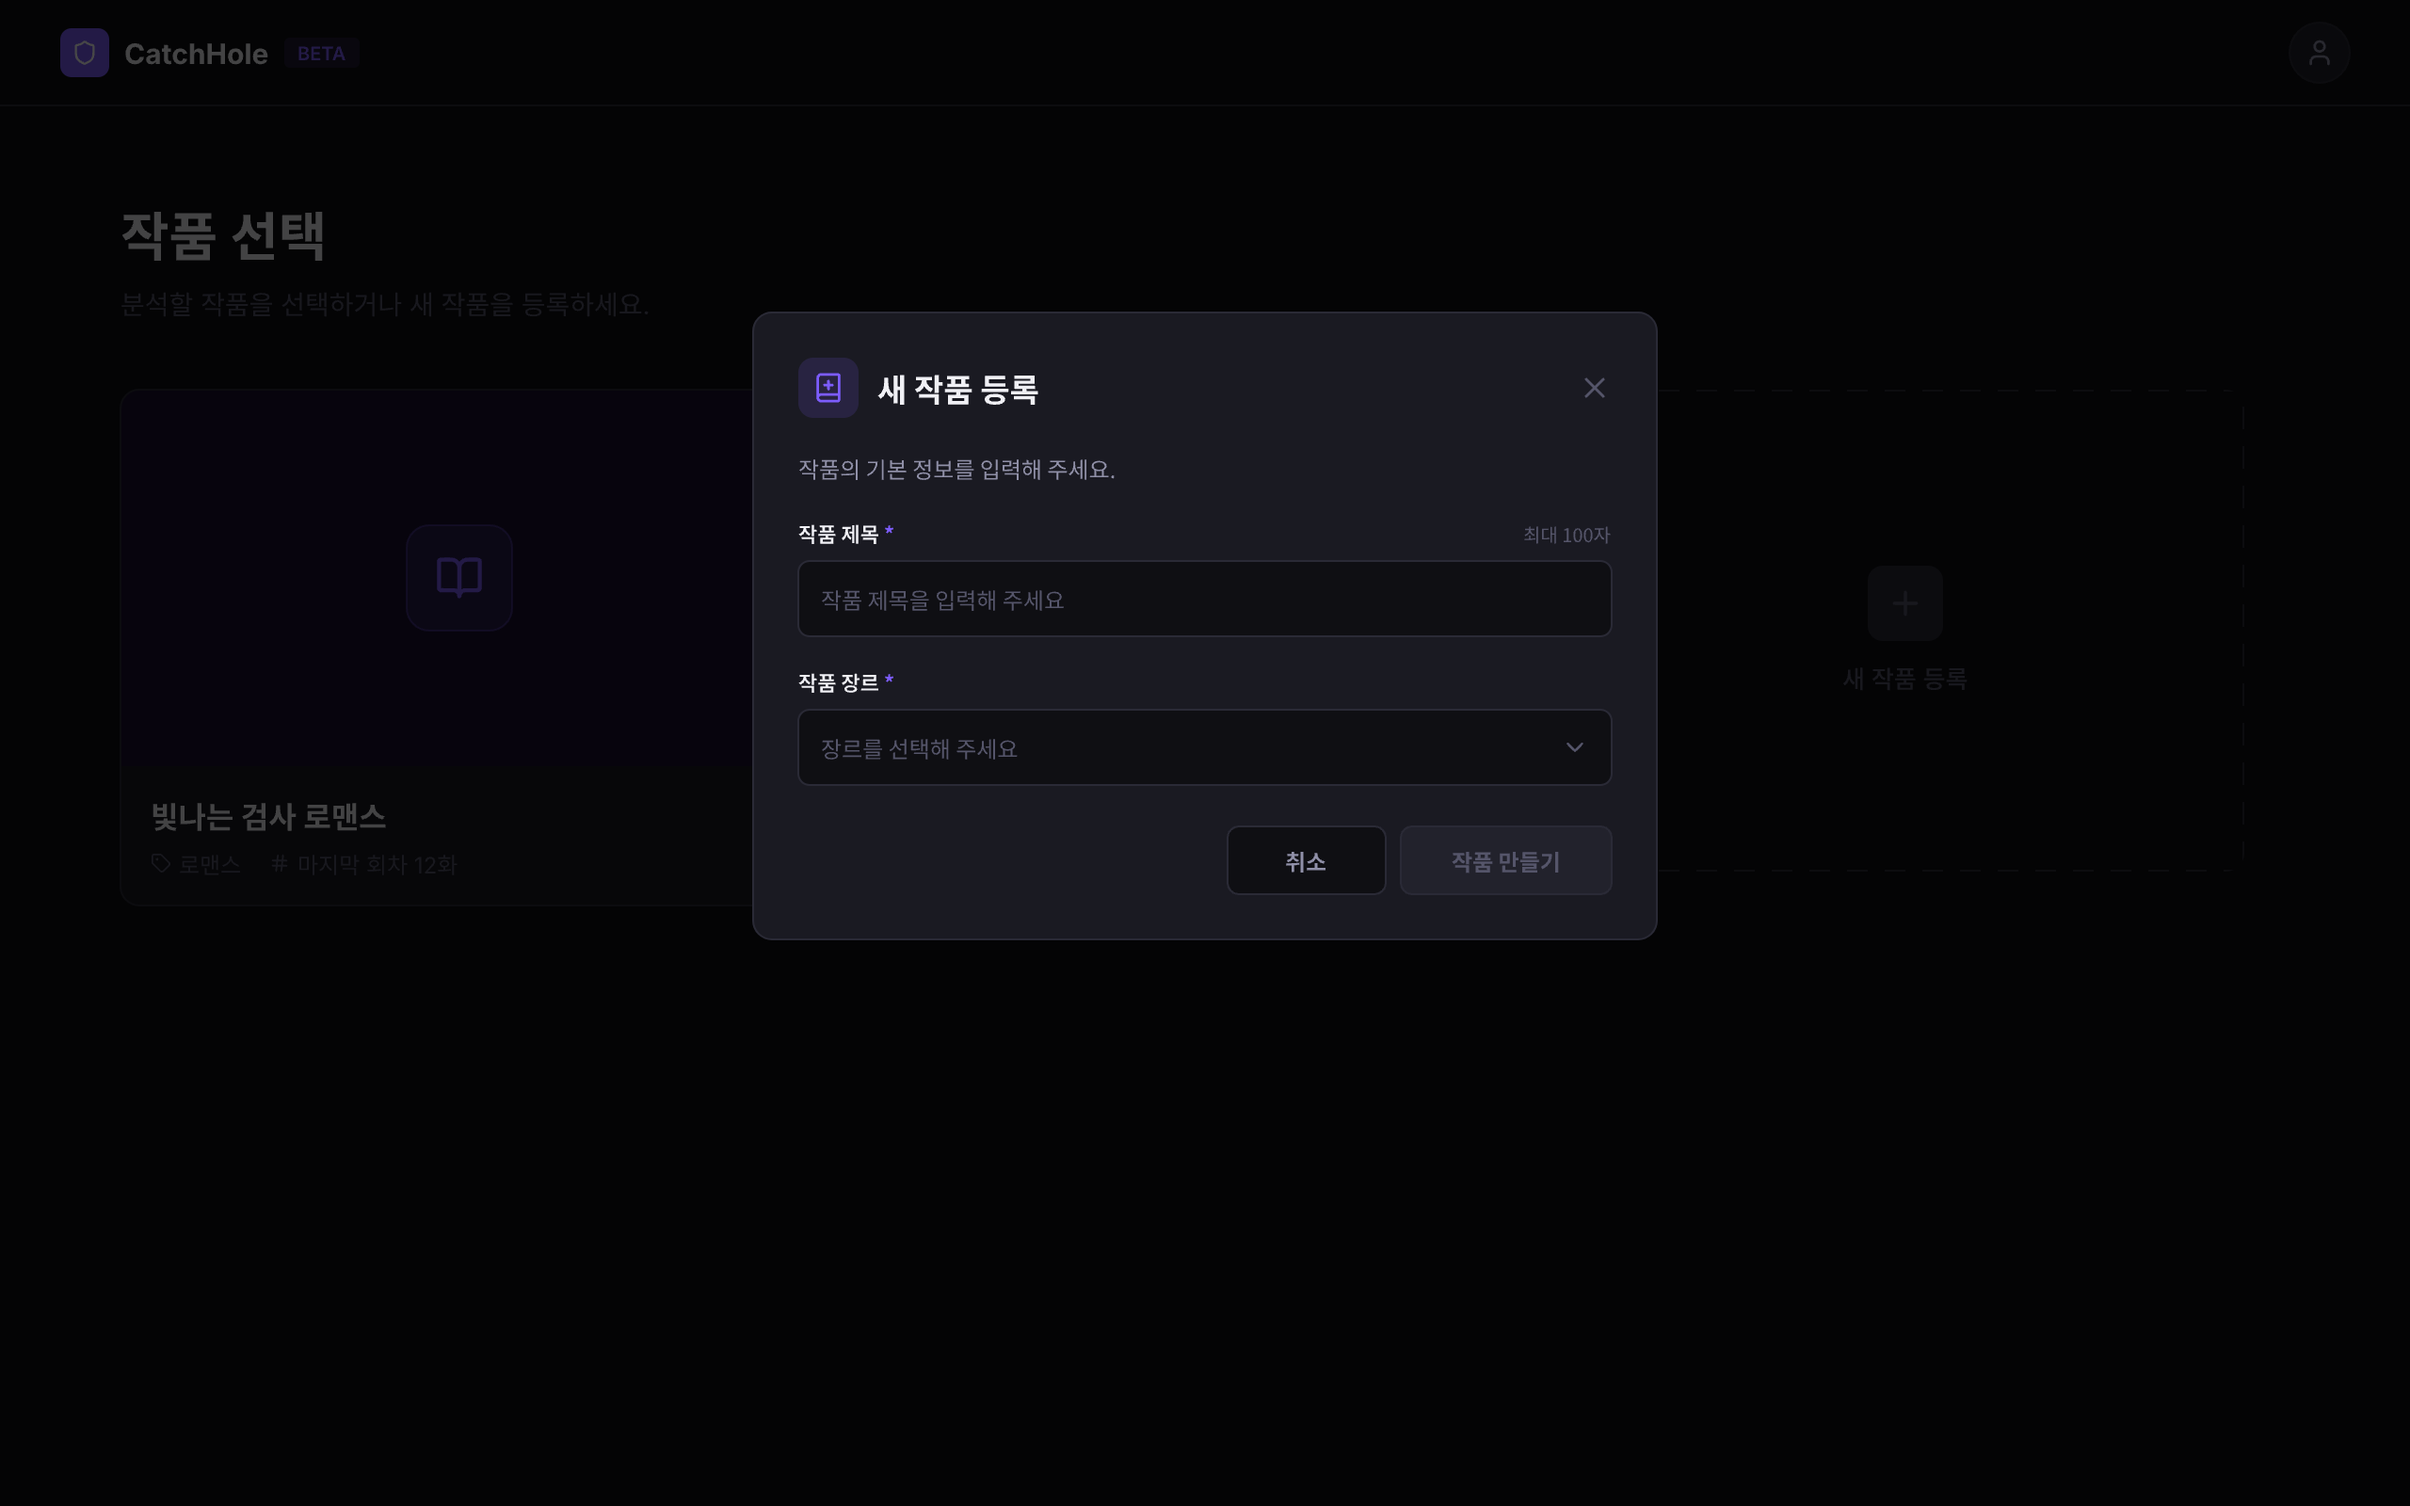
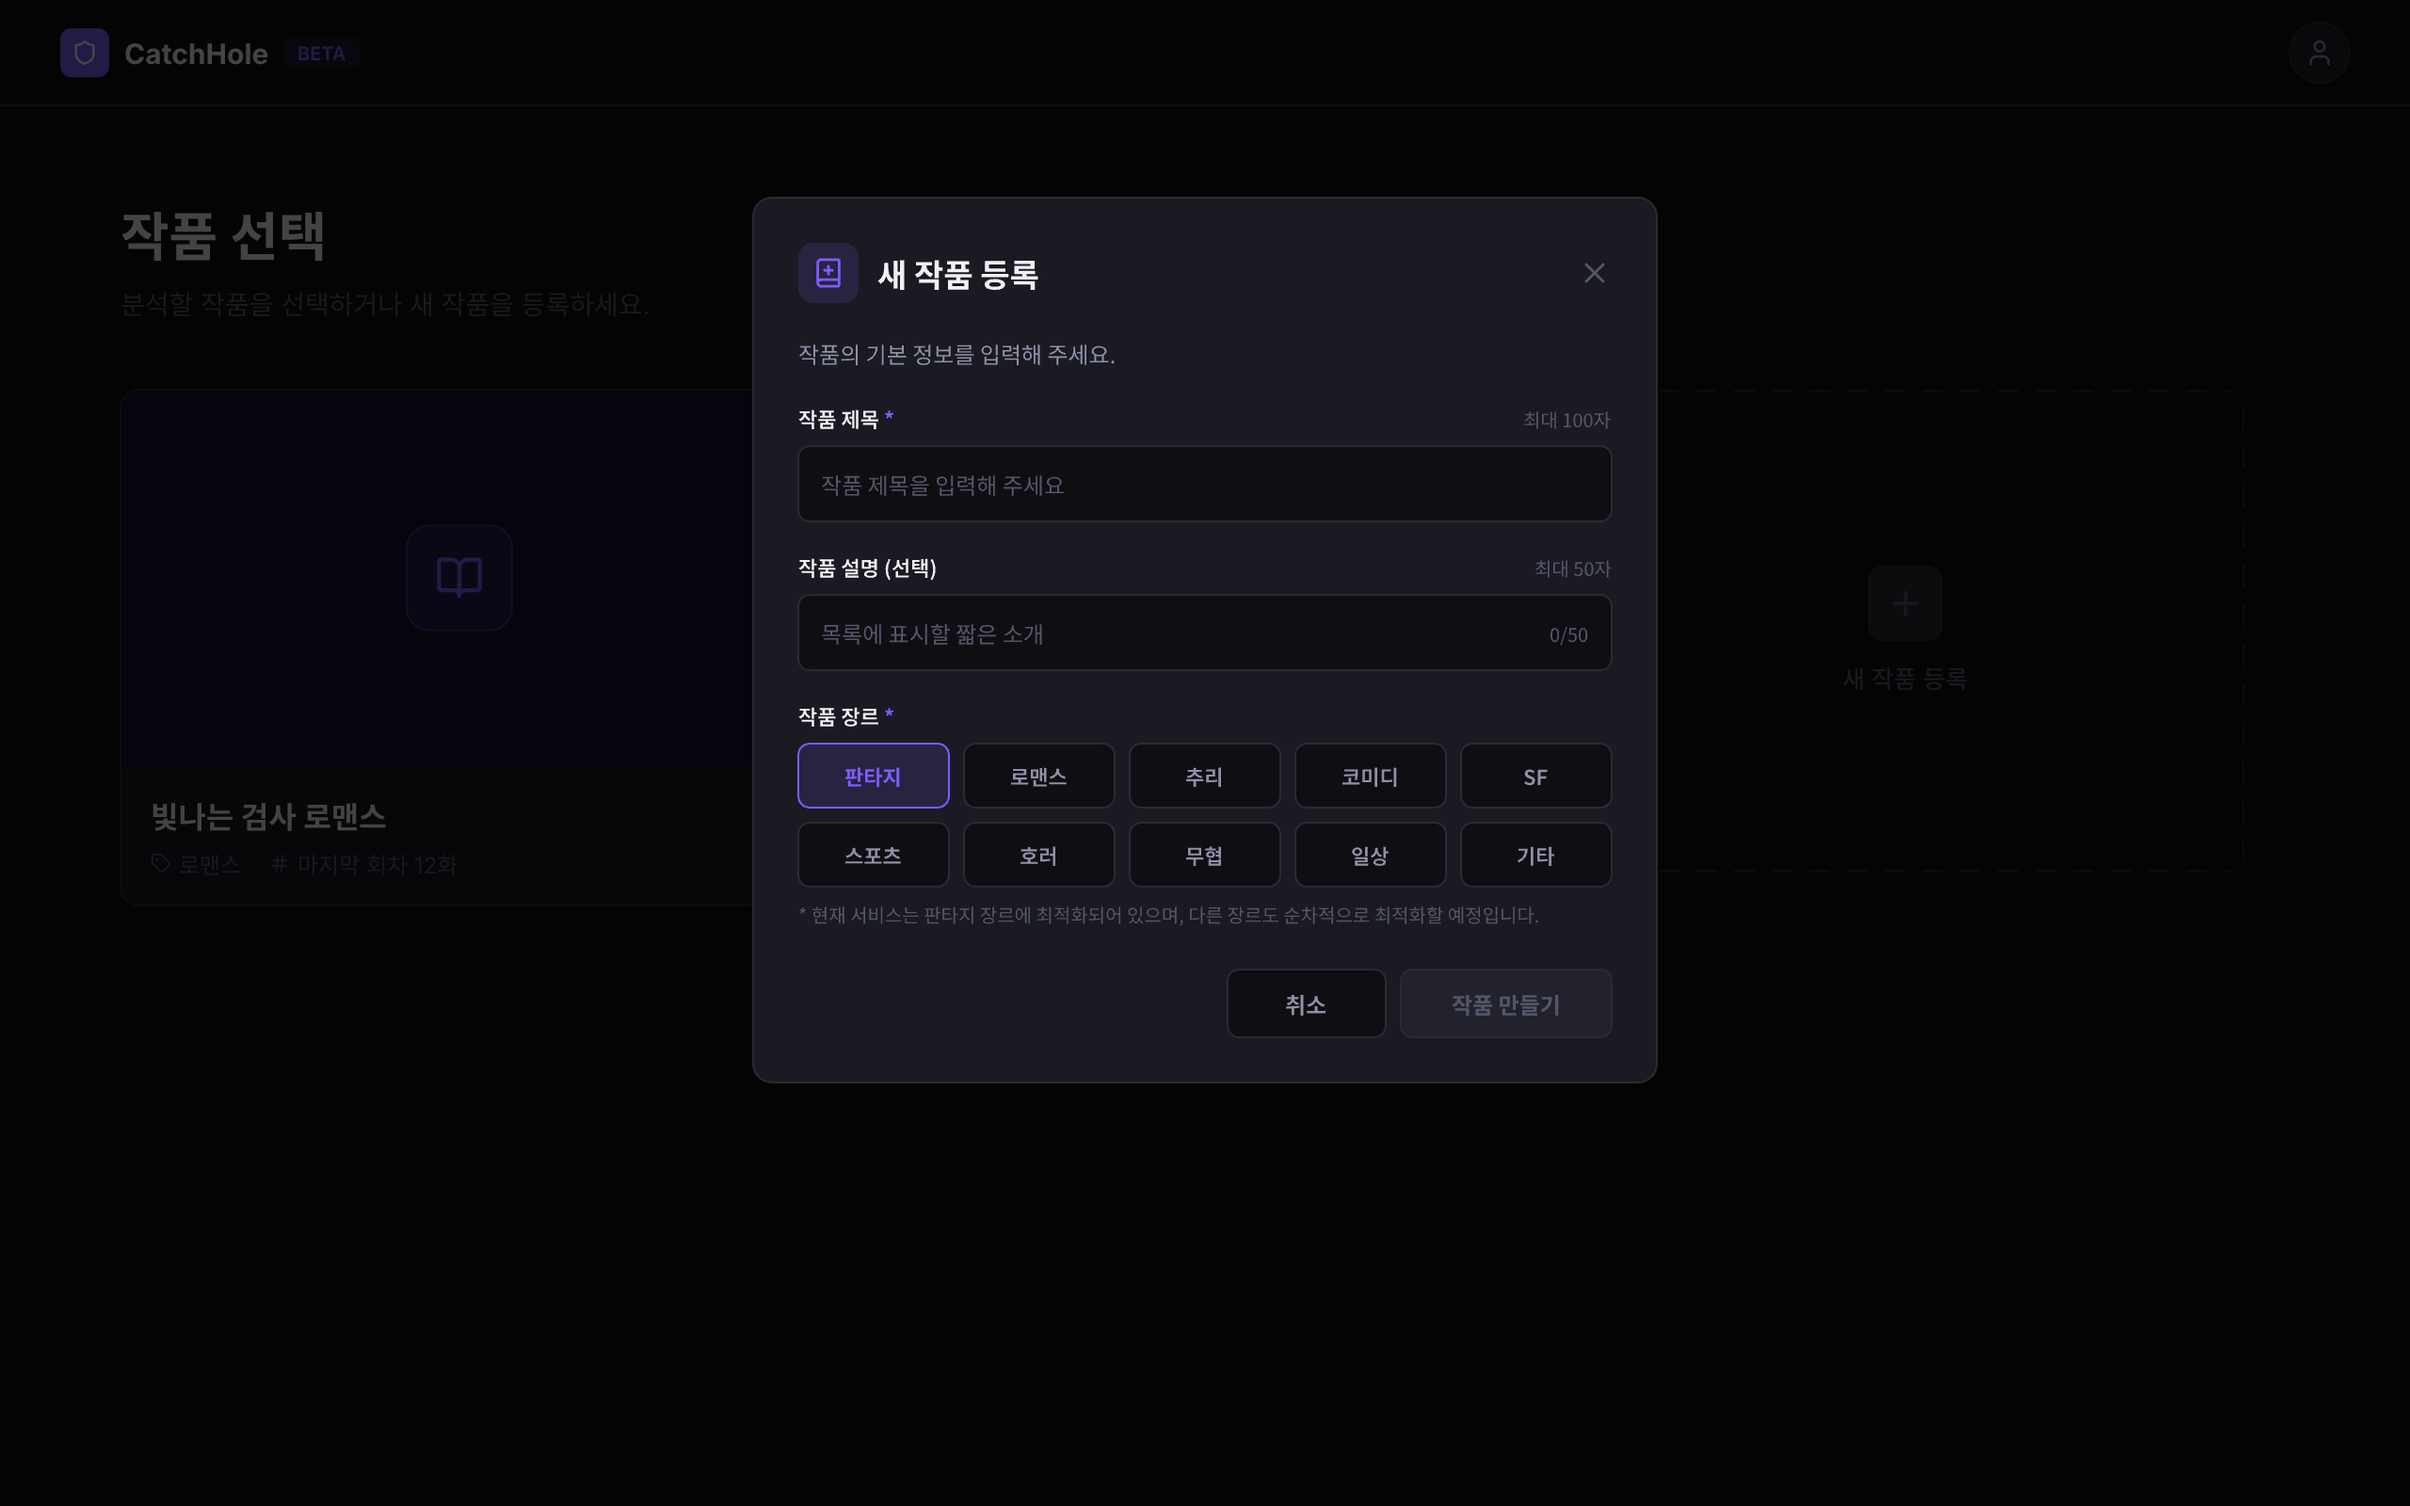
fix(work): 작품 설명 입력 제한을 50자로 확장한다
- 작품 생성·수정 모달의 설명 검증과 글자 수 카운터를 최대 50자로 변경합니다.

- 51자 입력 오류를 Playwright 회귀 테스트로 검증하고 요구사항 문서를 동기화했습니다.

- Pencil 작품 등록 시안의 50자 카운터를 반영한 화면 이미지를 갱신했습니다.

Changed region(s): [[0.3125, 0.125, 0.6875, 0.7188], [0.625, 0.3438, 0.6562, 0.375]]

diff --git a/src/app/components/catchhole/WorkCreateModal.tsx b/src/app/components/catchhole/WorkCreateModal.tsx
@@ -33,7 +33,7 @@ function validate(title: string, description: string, genre: string): FieldError
   const errors: FieldErrors = {};
   if (!title.trim()) errors.title = '작품 제목을 입력해 주세요.';
   else if (title.trim().length > 100) errors.title = '작품 제목은 100자 이하로 입력해 주세요.';
-  if (description.trim().length > 20) errors.description = '작품 설명은 20자 이하로 입력해 주세요.';
+  if (description.trim().length > 50) errors.description = '작품 설명은 50자 이하로 입력해 주세요.';
   if (!genre) errors.genre = '작품 장르를 선택해 주세요.';
   return errors;
 }
@@ -225,9 +225,9 @@ export function WorkCreateModal({ onClose, onCreated }: Props) {
           />
           <span style={{
             position: 'absolute', right: 12, top: 15,
-            color: description.trim().length > 20 ? C.danger : C.t3, fontSize: 11,
+            color: description.trim().length > 50 ? C.danger : C.t3, fontSize: 11,
           }}>
-            {description.trim().length}/20
+            {description.trim().length}/50
           </span>
         </div>
         <div id="work-description-error" style={{ minHeight: 24, paddingTop: 6, color: C.danger, fontSize: 12 }}>

diff --git a/src/app/components/catchhole/WorkEditModal.tsx b/src/app/components/catchhole/WorkEditModal.tsx
@@ -34,7 +34,7 @@ function validate(title: string, description: string, genre: string): FieldError
   const errors: FieldErrors = {};
   if (!title.trim()) errors.title = '작품 제목을 입력해 주세요.';
   else if (title.trim().length > 100) errors.title = '작품 제목은 100자 이하로 입력해 주세요.';
-  if (description.trim().length > 20) errors.description = '작품 설명은 20자 이하로 입력해 주세요.';
+  if (description.trim().length > 50) errors.description = '작품 설명은 50자 이하로 입력해 주세요.';
   if (!genre) errors.genre = '작품 장르를 선택해 주세요.';
   return errors;
 }
@@ -268,10 +268,10 @@ export function WorkEditModal({ work, onClose, onUpdated }: Props) {
             position: 'absolute',
             right: 12,
             top: 15,
-            color: description.trim().length > 20 ? C.danger : C.t3,
+            color: description.trim().length > 50 ? C.danger : C.t3,
             fontSize: 11,
           }}>
-            {description.trim().length}/20
+            {description.trim().length}/50
           </span>
         </div>
         <div id="work-edit-description-error" style={{ minHeight: 24, paddingTop: 6, color: C.danger, fontSize: 12 }}>

diff --git a/e2e/smoke.spec.ts b/e2e/smoke.spec.ts
@@ -490,12 +490,12 @@ test('작품 등록은 입력 오류를 표시하고 실패한 값을 유지한 
 
   await dialog.getByLabel('작품 제목 *').fill('검은 달의 기사');
   const descriptionInput = dialog.getByLabel('작품 설명 (선택)');
-  await descriptionInput.fill('가'.repeat(21));
+  await descriptionInput.fill('가'.repeat(51));
   const fantasyGenre = dialog.getByRole('radio', { name: '판타지' });
   const romanceGenre = dialog.getByRole('radio', { name: '로맨스' });
   await fantasyGenre.click();
   await dialog.getByRole('button', { name: '작품 만들기' }).click();
-  await expect(dialog.getByText('작품 설명은 20자 이하로 입력해 주세요.', { exact: true })).toBeVisible();
+  await expect(dialog.getByText('작품 설명은 50자 이하로 입력해 주세요.', { exact: true })).toBeVisible();
   expect(createAttempts).toBe(0);
   await descriptionInput.fill('달빛 아래 시작된 모험');
   await expect(fantasyGenre).toHaveAttribute('aria-checked', 'true');

diff --git a/docs/data-requirements/work.md b/docs/data-requirements/work.md
@@ -31,7 +31,7 @@
 > - `latestEpisodeNo > 0`이면 `마지막 회차 {latestEpisodeNo}화`로 표시한다.
 > - `latestEpisodeNo = 0`이면 `등록된 회차 없음`으로 표시한다.
 > - 장르는 작품 등록 시 반드시 선택하는 필수값이며 모든 작품 카드에 표시한다.
-> - 작품 설명은 최대 20자이며 한 줄 말줄임으로 표시한다. 기존 데이터가 `null`이면 `작품 소개가 없습니다.`를 표시한다.
+> - 작품 설명은 최대 50자이며 한 줄 말줄임으로 표시한다. 기존 데이터가 `null`이면 `작품 소개가 없습니다.`를 표시한다.
 > - 카드 커버는 BE 데이터 없이 FE의 기본 이미지 또는 그라데이션으로 표시한다.
 > - 카드에 마우스를 올리거나 카드 내부 액션에 키보드 초점이 들어오면 수정·삭제 버튼을 표시한다.
 
@@ -76,7 +76,7 @@
   - 가장 큰 회차 번호 `latestEpisodeNo`
 - `genre`는 작품 등록 시 선택한 필수값이며 `null`로 제공하지 않음
 - `latestEpisodeNo`는 회차 개수가 아니라 가장 큰 회차 번호이며, 등록된 회차가 없으면 `0`
-- 작품 설명은 최대 20자 한 줄로 표시하고, 생성 시각·수정 시각은 MVP 작품 카드에 표시하지 않음
+- 작품 설명은 최대 50자 한 줄로 표시하고, 생성 시각·수정 시각은 MVP 작품 카드에 표시하지 않음
 - 분석 상태와 충돌 건수 집계는 작품 목록 응답에 요구하지 않음
 
 **5-2. FE → BE 전달 데이터 요구사항**
@@ -97,7 +97,7 @@
 
 > **MVP 범위 메모**
 > - 작품 제목, 선택 작품 설명, 장르를 입력해 작품을 생성한다.
-> - 작품 설명은 목록에 표시할 최대 20자의 짧은 소개이며, 커버 이미지는 MVP 이후 검토한다.
+> - 작품 설명은 목록에 표시할 최대 50자의 짧은 소개이며, 커버 이미지는 MVP 이후 검토한다.
 > - 원고·설정집 파일은 작품 등록 모달에서 받지 않는다.
 > - 작품 생성과 회차 업로드는 서로 독립된 작업이며, 등록된 회차가 없는 작품도 정상 상태다.
 > - 작품 생성 후 해당 작품의 [원고 목록](./episode.md#원고-목록-대시보드-원고-탭)으로 이동하고, 빈 원고 영역에서 첫 회차 업로드를 유도한다.
@@ -105,7 +105,7 @@
 **1. 화면에 표시할 데이터**
 - 모달 제목: `새 작품 등록`
 - 작품 제목 입력
-- 작품 설명 입력 (선택, 최대 20자)
+- 작품 설명 입력 (선택, 최대 50자)
 - 장르 필수 선택
   - 모든 지원 장르를 포함한 고정 목록
   - 생성 화면에만 `현재 서비스는 판타지 장르에 최적화되어 있으며, 다른 장르도 순차적으로 최적화할 예정입니다.` 안내 표시
@@ -128,7 +128,7 @@
 **4. 데이터 없음 / 실패 표시**
 - 작품 제목을 입력하지 않으면 작품 만들기 버튼 비활성화
 - 작품 제목이 100자를 초과하면 입력 오류 표시
-- 작품 설명이 20자를 초과하면 입력 오류 표시
+- 작품 설명이 50자를 초과하면 입력 오류 표시
 - 장르를 선택하지 않으면 작품 만들기 버튼 비활성화
 - 작품 생성 중 로딩·중복 제출 방지
 - 작품 생성 실패 시 입력값과 모달을 유지하고 오류 안내와 다시 시도 제공
@@ -146,7 +146,7 @@
 
 **5-2. FE → BE 전달 데이터 요구사항**
 - 작품 제목 `title` (필수, 최대 100자)
-- 작품 설명 `description` (선택, 최대 20자, 공백뿐이면 `null`)
+- 작품 설명 `description` (선택, 최대 50자, 공백뿐이면 `null`)
 - 선택한 장르 `genre` (필수, 지원 장르 값 중 하나)
 - 커버 이미지·원고 파일·설정집 파일은 전달하지 않음
 
@@ -172,7 +172,7 @@
 
 **3. 데이터 정책**
 - 제목은 필수이며 최대 100자
-- 작품 설명은 선택값이며 최대 20자, 공백뿐이면 `null`
+- 작품 설명은 선택값이며 최대 50자, 공백뿐이면 `null`
 - 장르는 지원 목록 중 하나를 필수 선택
 - 수정 실패 시 입력값과 모달을 유지하고 필드 오류 또는 다시 시도 안내 표시
 - 저장 중 중복 제출과 모달 닫기 방지
